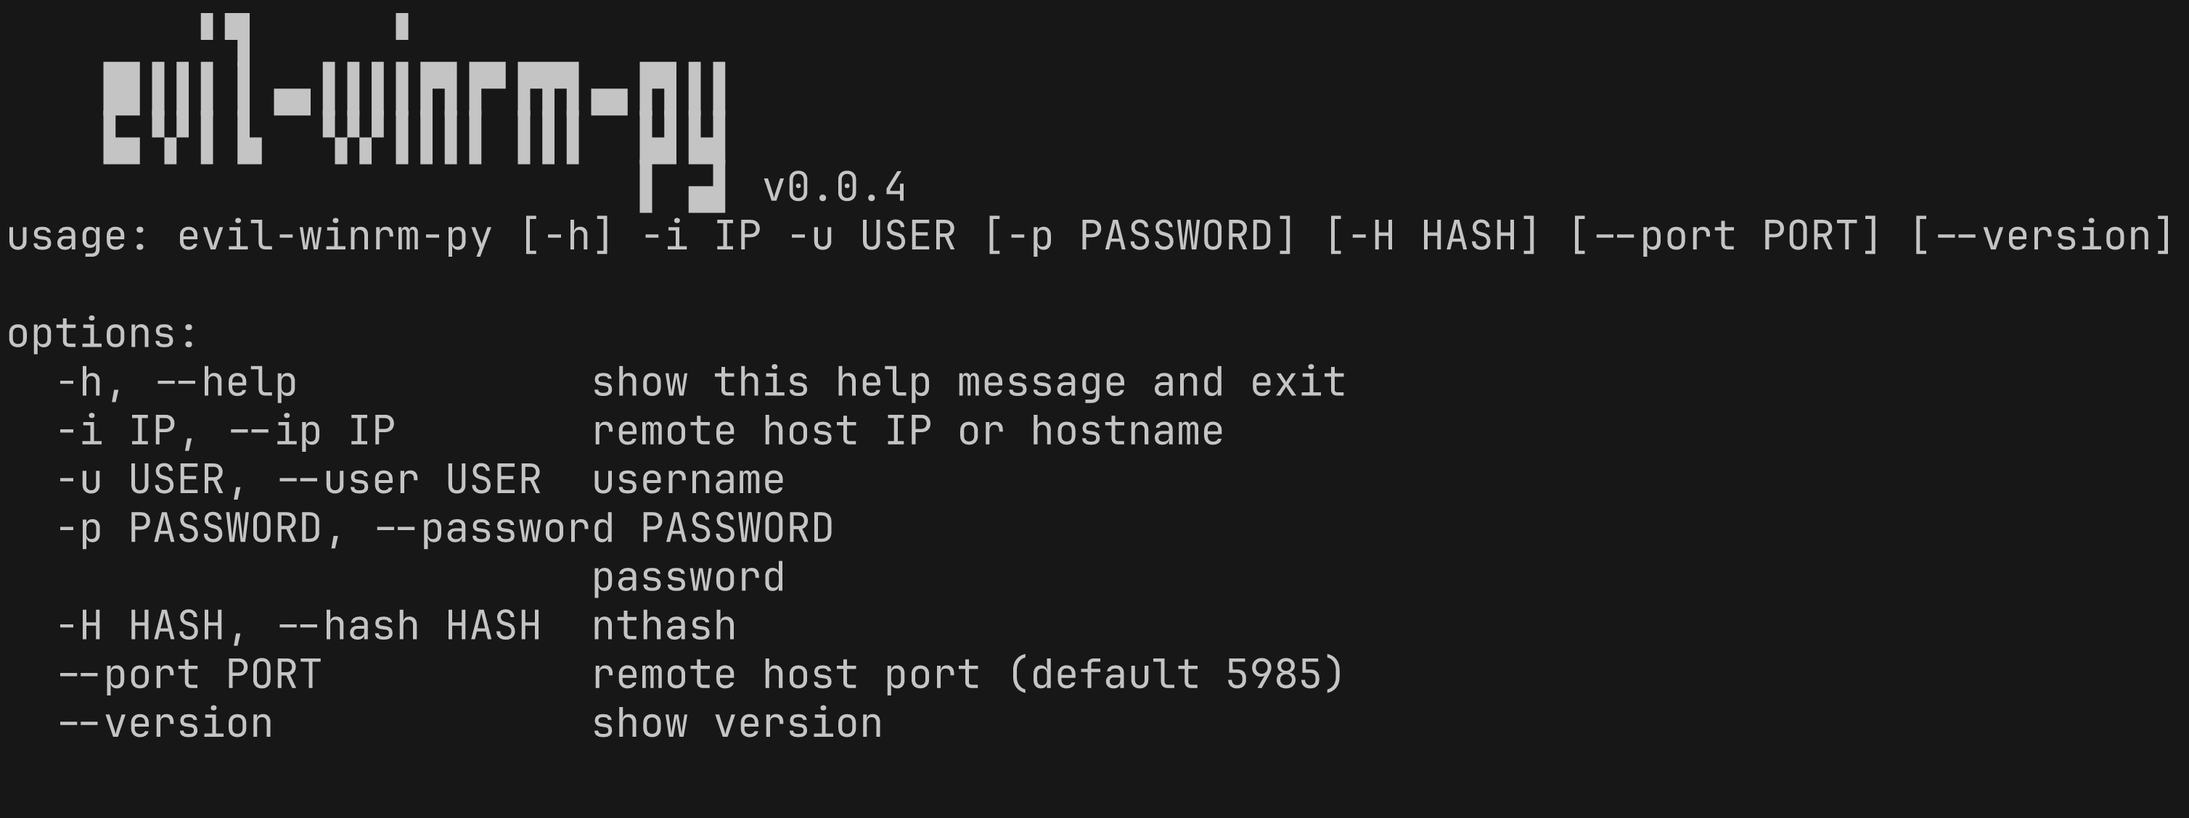
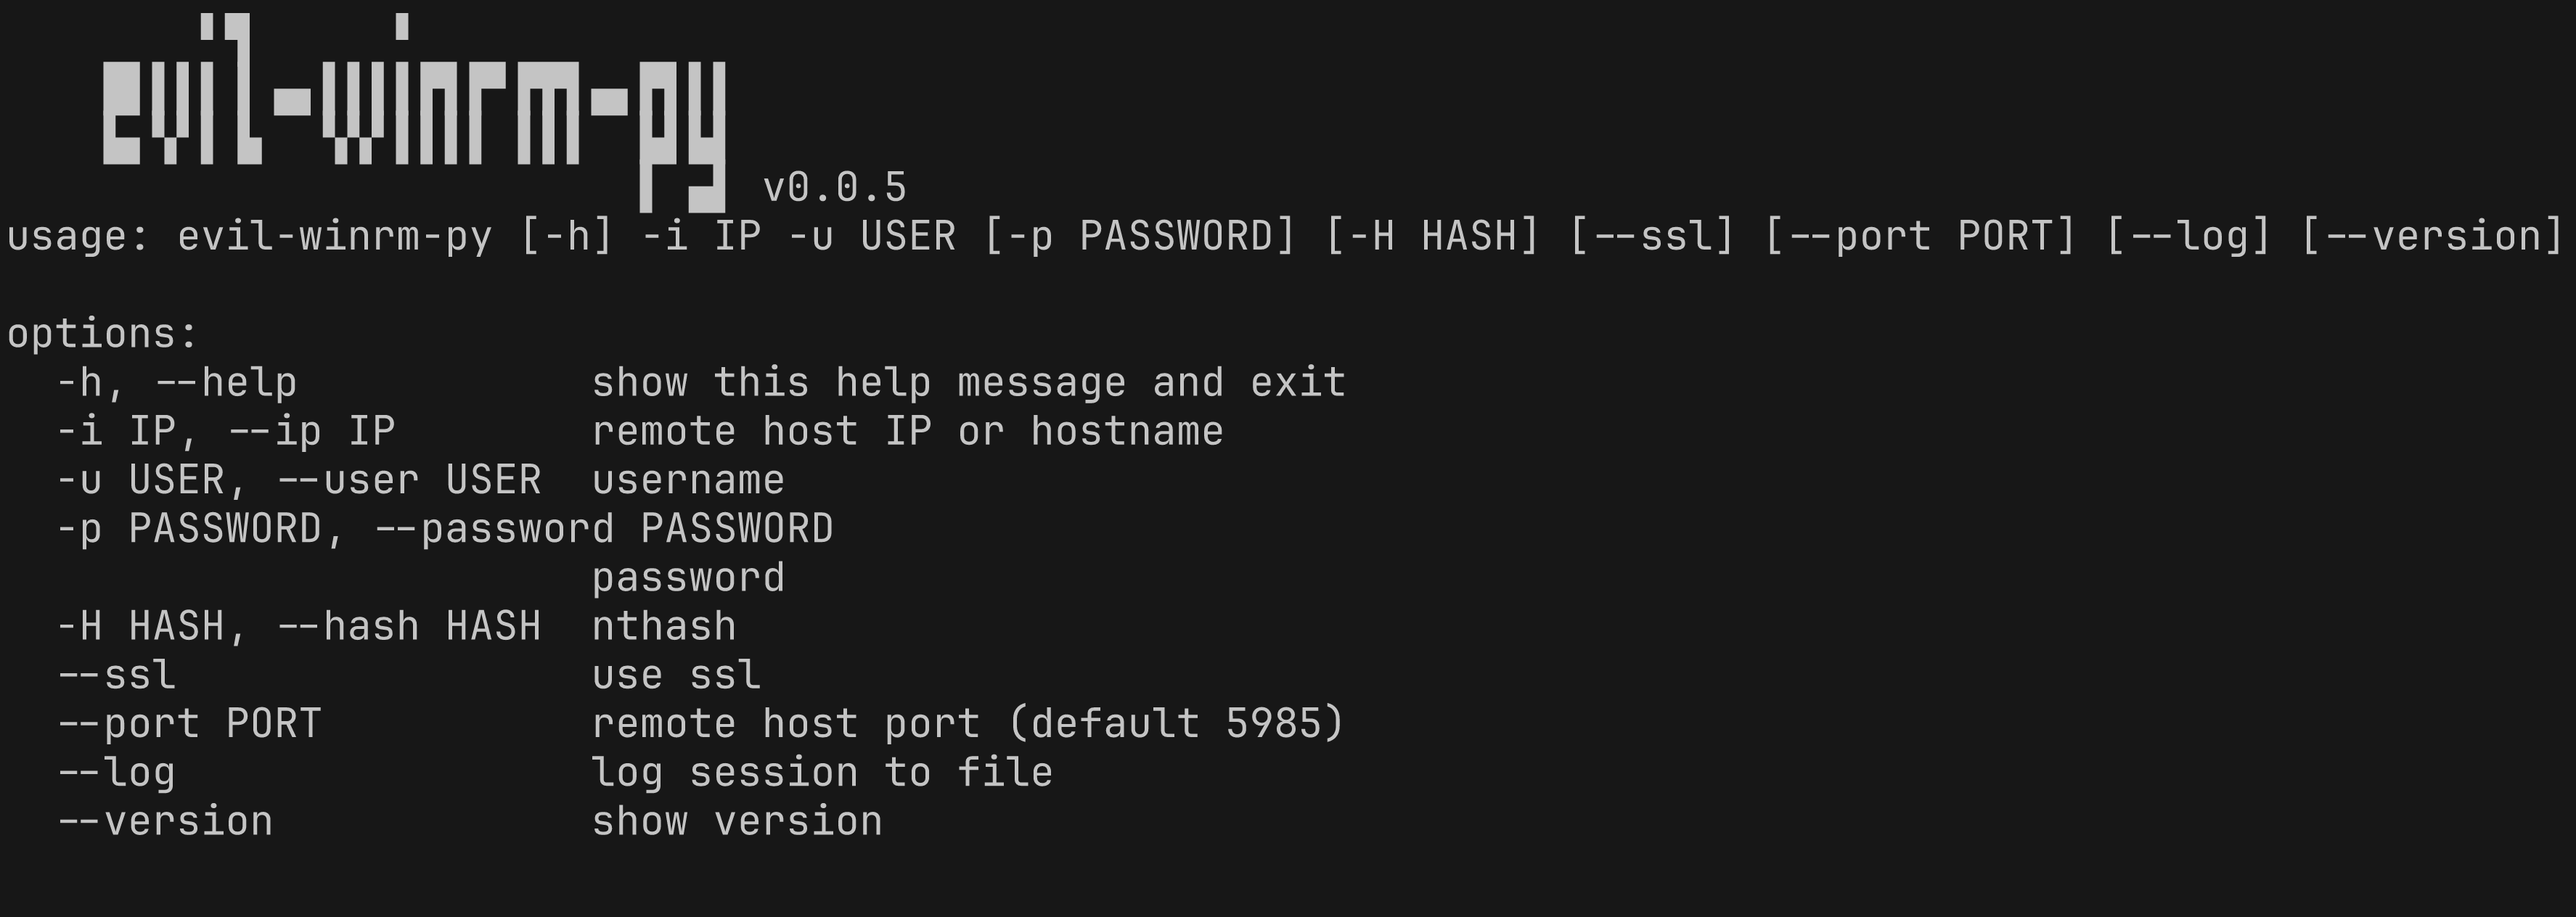
Bump version to 0.0.5

Changed region(s): [[0.0, 0.3413, 0.6233, 0.9309], [0.0, 0.0, 0.9973, 0.3103]]

diff --git a/evil_winrm_py/__init__.py b/evil_winrm_py/__init__.py
@@ -1,1 +1,1 @@
-__version__ = "0.0.4"
+__version__ = "0.0.5"

diff --git a/README.md b/README.md
@@ -2,7 +2,7 @@
 
 Evil-WinRM-Py is a Python-based tool for Windows Remote Management (WinRM) that allows users to execute commands on remote Windows machines.
 
-![](https://raw.githubusercontent.com/adityatelange/evil-winrm-py/refs/tags/v0.0.4/assets/terminal.png)
+![](https://raw.githubusercontent.com/adityatelange/evil-winrm-py/refs/tags/v0.0.5/assets/terminal.png)
 
 > [!NOTE]
 > This tool is designed strictly for educational, ethical use, and authorized penetration testing. Always ensure you have explicit authorization before accessing any system. Unauthorized access or misuse of this tool is both illegal and unethical.
@@ -56,7 +56,7 @@ pip uninstall evil-winrm-py
 ## Usage
 
 ```bash
-usage: evil-winrm-py [-h] -i IP -u USER [-p PASSWORD] [-H HASH] [--port PORT] [--version]
+usage: evil-winrm-py [-h] -i IP -u USER [-p PASSWORD] [-H HASH] [--ssl] [--port PORT] [--log] [--version]
 
 options:
   -h, --help            show this help message and exit
@@ -67,6 +67,7 @@ options:
   -H HASH, --hash HASH  nthash
   --ssl                 use ssl
   --port PORT           remote host port (default 5985)
+  --log                 log session to file
   --version             show version
 ```
 
